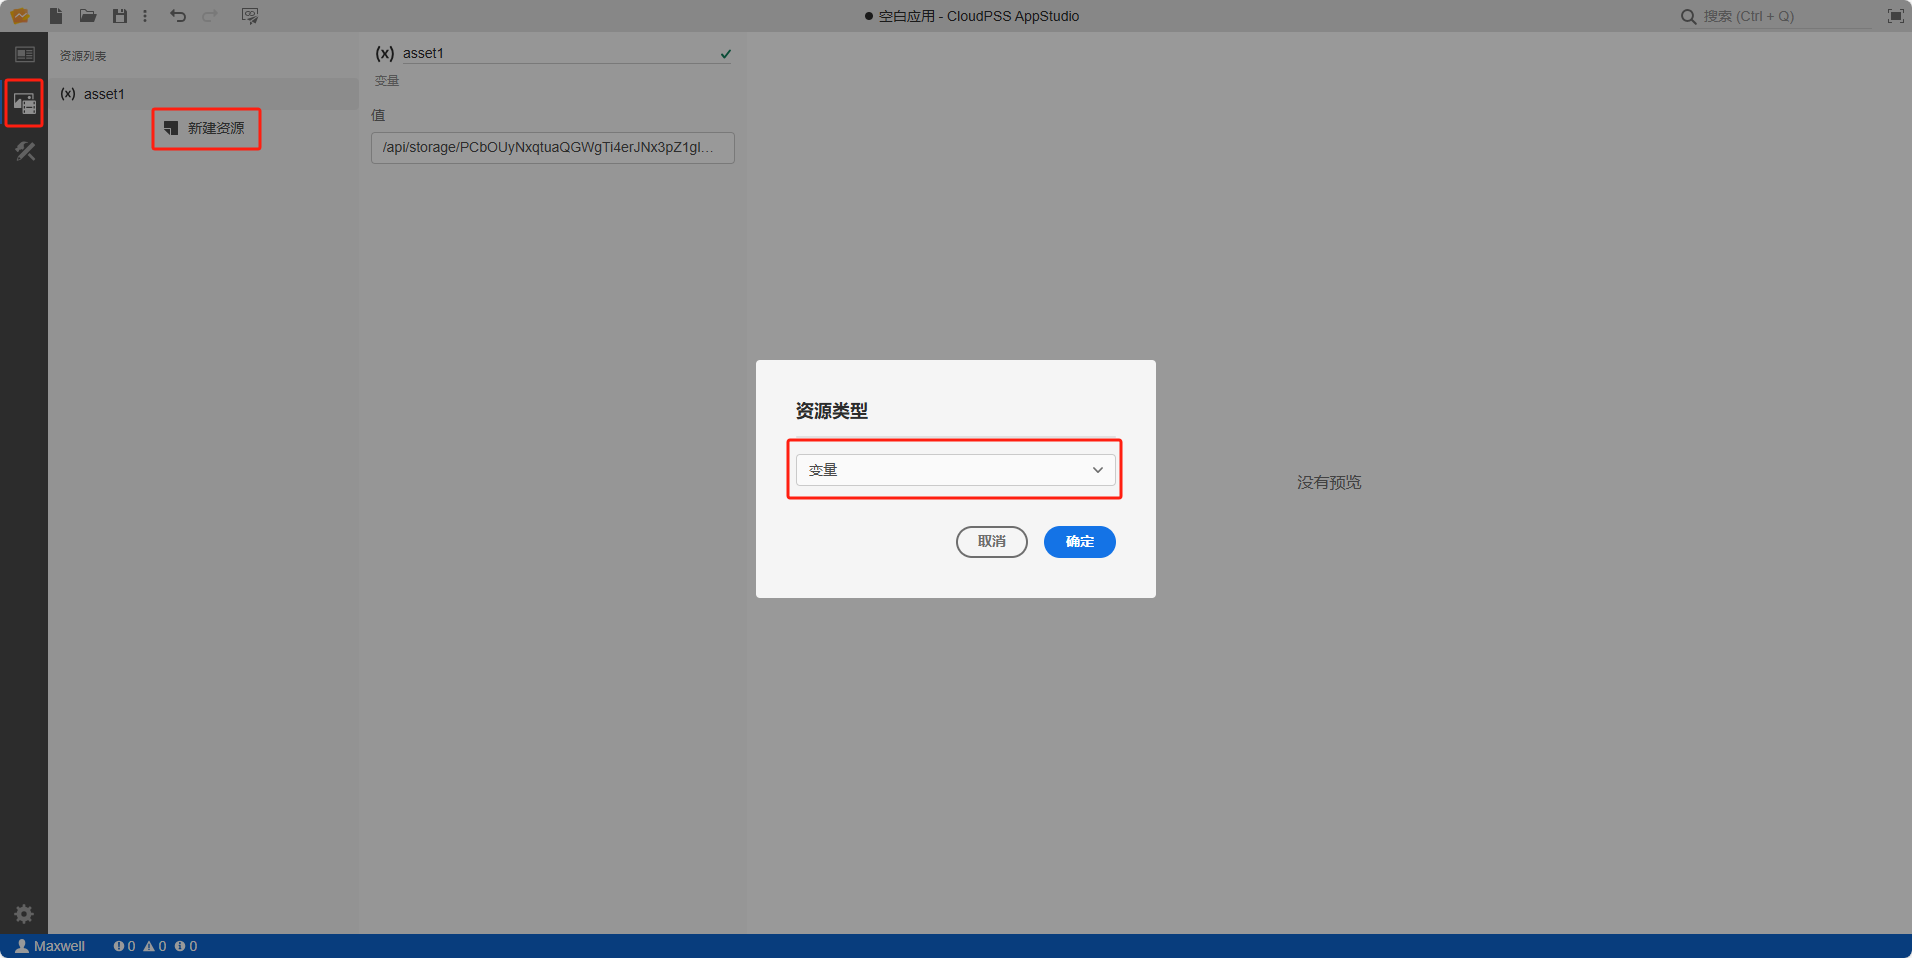
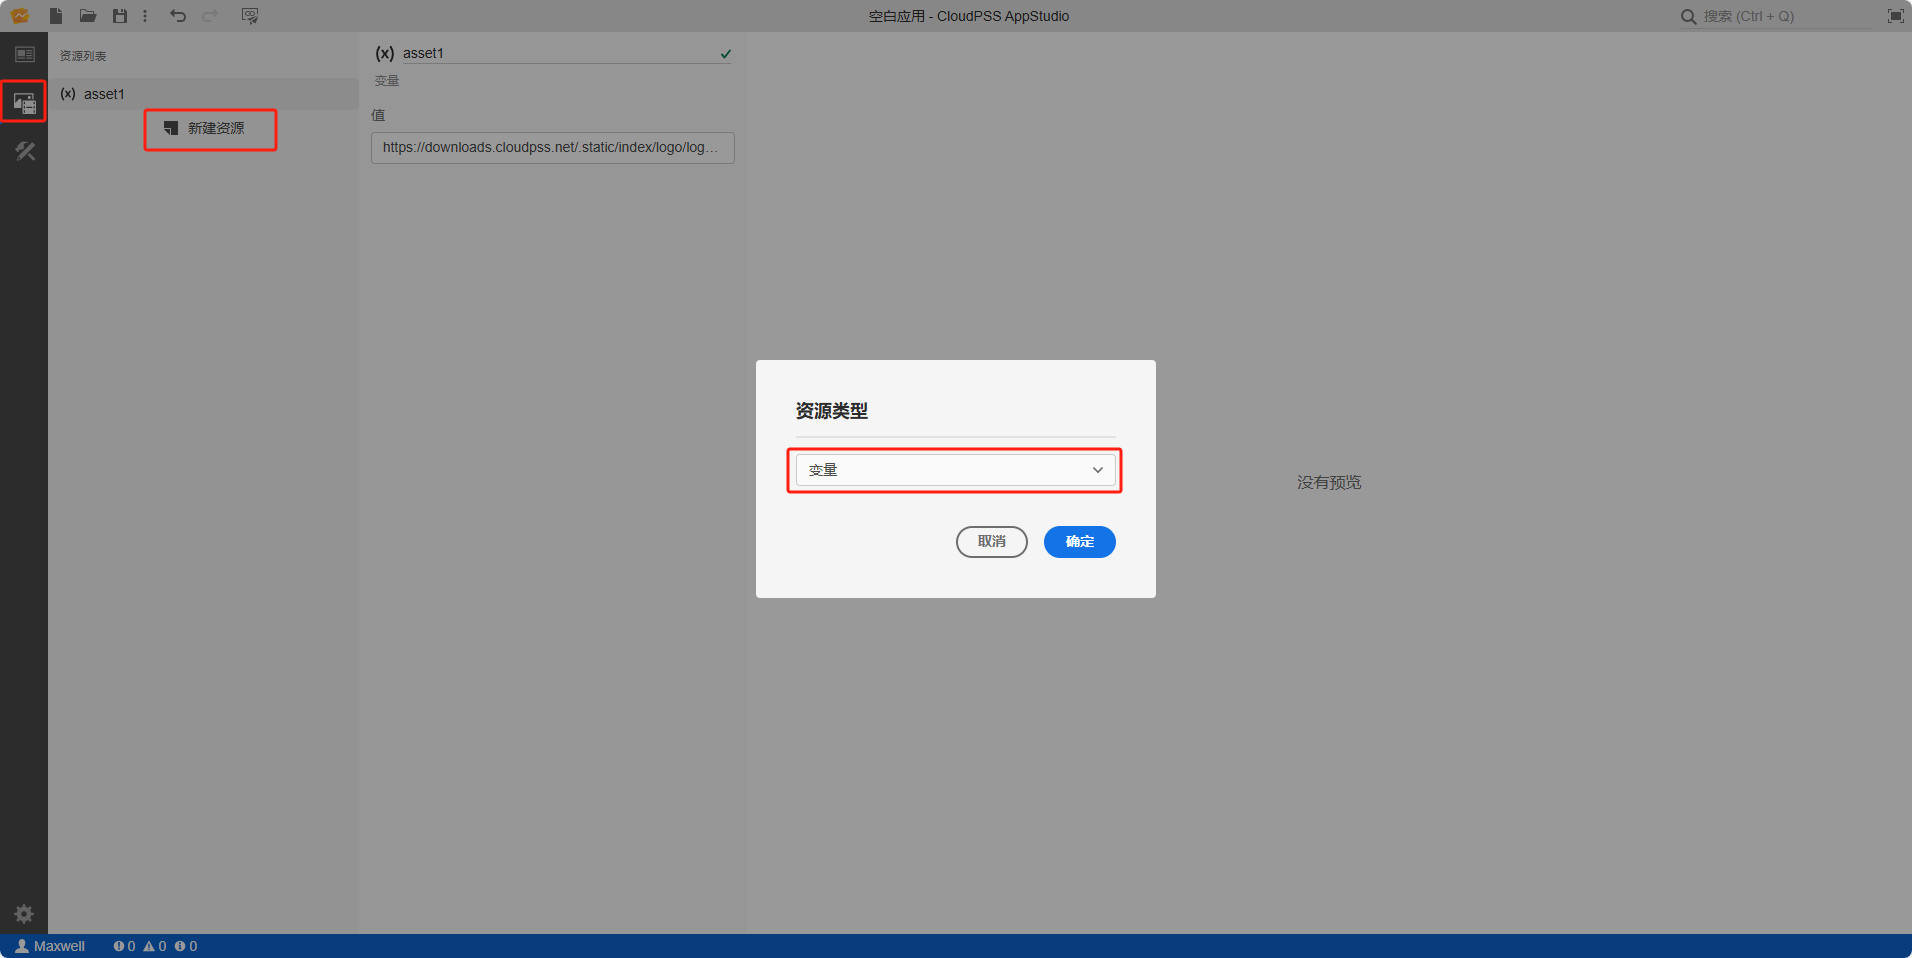
docs: 完善文档
Former-commit-id: d39a11c0f28c4bc127aff84c6c409cda2172fb15

diff --git a/docs/documents/software/10-xstudio/40-appstudio/60-widget-library/40-view/10-output-viewer/index.md b/docs/documents/software/10-xstudio/40-appstudio/60-widget-library/40-view/10-output-viewer/index.md
@@ -25,6 +25,7 @@ import CommonStyle from '../../60-grid/_common-style.md'
 | 显示头部 | `showHeader` |  | 是否显示头部 | 开关 | 是否显示头部，默认为否 |
 | 显示消息详情 | `showMessageDetails` |  | 是否显示消息详情 | 开关 | 是否显示消息详情，默认为否 |
 | 简化样式 | `simpleStyle` |  | 是否简化样式 | 开关 | 是否简化样式，包括不显示消息边框、背景等装饰性样式，默认为否 |
+| 幻灯片模式 | `slideMode` |  | 幻灯片模式 | 选择器 | 幻灯片模式，包括否、水平滚动、垂直滚动，默认为否 |
 
 
 ### 内容

diff --git a/docs/documents/software/10-xstudio/40-appstudio/60-widget-library/20-content/40-webpage/index.md b/docs/documents/software/10-xstudio/40-appstudio/60-widget-library/20-content/40-webpage/index.md
@@ -40,7 +40,7 @@ import CommonStyle from '../../60-grid/_common-style.md'
 
 1. 创建一个网页控件，在右侧的属性配置区内给网页命名为 A
 
-2. 在 内容/URL 属性栏中输入 `www.cloudpss.net` 链接地址，调整一下页面大小，如下图所示
+2. 在 内容/URL 属性栏中输入 `/` 链接地址，调整一下页面大小，如下图所示
 
 3. 点击工具栏的预览快捷按钮(或者 <kbd>Ctrl</kbd> + <kbd>P</kbd> )，进入预览模式，在预览模式下显示嵌套的网页
 

diff --git a/docs/documents/software/10-xstudio/40-appstudio/60-widget-library/20-content/20-image/index.md b/docs/documents/software/10-xstudio/40-appstudio/60-widget-library/20-content/20-image/index.md
@@ -46,7 +46,7 @@ import CommonStyle from '../../60-grid/_common-style.md'
 
 1. 创建一个图片控件，在右侧的属性配置区内给图片命名为 A
 
-2. 创建静态资源 asset1，值设置为 `/api/storage/PCbOUyNxqtuaQGWgTi4erJNx3pZ1gldSaUoU5sIH6mZN1GirgsBSchdW23dcSw8z#filename=demo.jpg`
+2. 创建静态资源 asset1，值设置为 `https://downloads.cloudpss.net/.static/index/logo/logo-h.svg`
    
 3. 将输入框 A 的内容/值属性切换到 fx 表达式模式，设置为 `$asset1.value`
 
